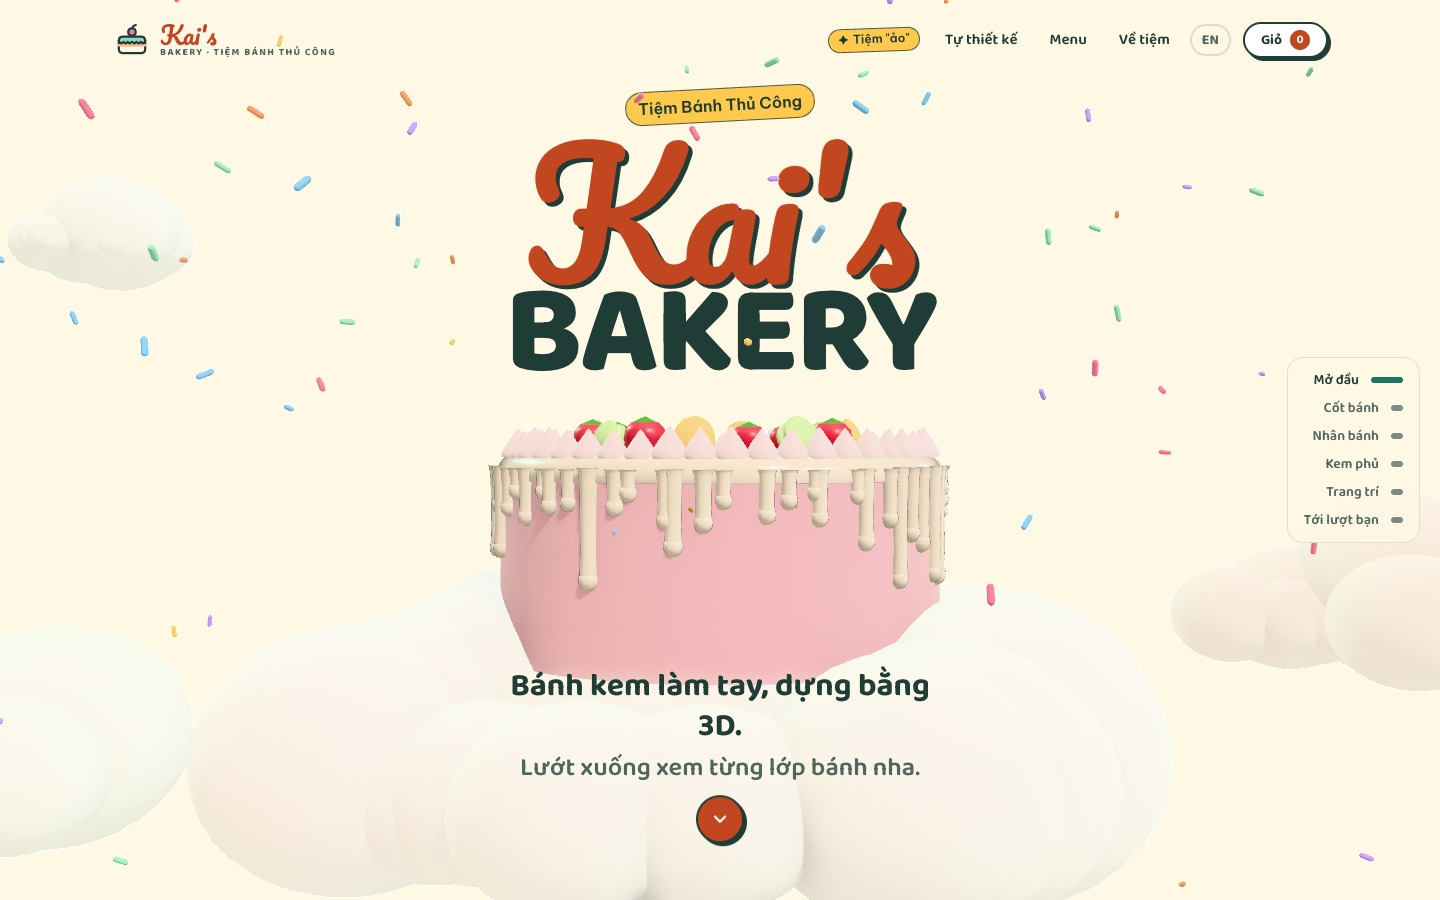
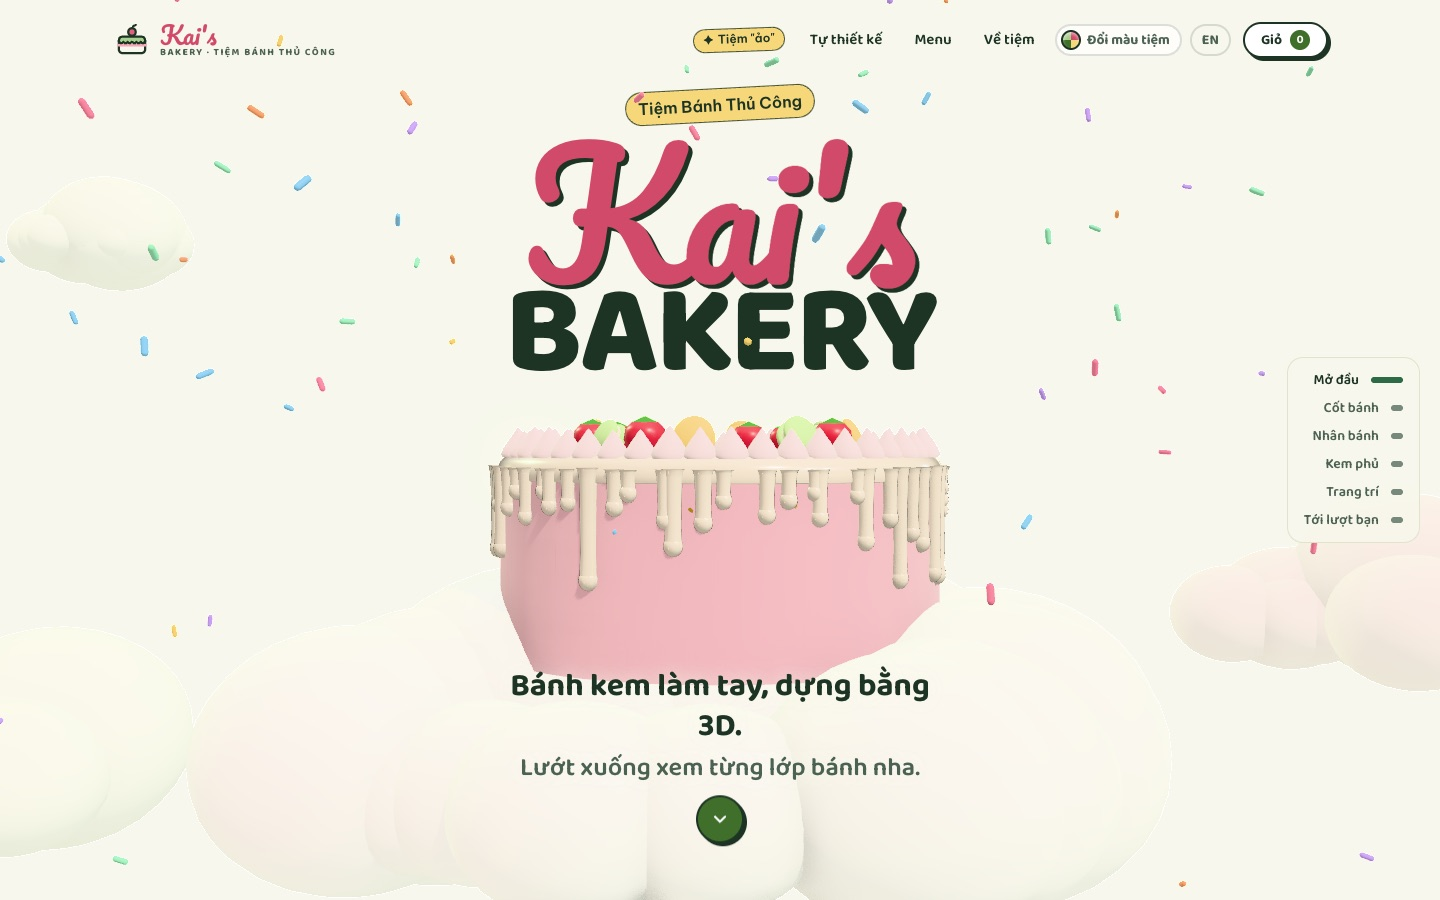
README and pictures in G1: seven screenshots, the social preview, and a strip of the four colour sets
All taken on the production build at the same framing as before (1440x900, phone 390x844 at 2x, social
preview 1200x630 with the header, chapter list and opening text hidden). README gets "Four colour sets"
(table and a 2x2 strip of the home page in each set), "Four palettes without a flash" under How it is built,
and the contrast note now covers all four sets.

diff --git a/README.md b/README.md
@@ -40,6 +40,19 @@ realistic on purpose, but no order is ever sent and nobody is charged; every pag
 
 <img src="docs/screenshots/phone-menu.jpg" width="300" alt="The vitrine on a phone: the 3D table on top, the list of cakes below">
 
+### Four colour sets
+
+A switch in the header recolours the whole shop, 3D scenes included, and the browser remembers the choice.
+
+| Set                           | Feel                                                          |
+| ----------------------------- | ------------------------------------------------------------- |
+| **G1 · Matcha Dâu** (default) | matcha milk and strawberry: soft greens, a strawberry "Kai's" |
+| **B · Bơ Bạc Hà**             | butter and mint, the first palette: a peach-orange buy button |
+| **G2 · Lá Dứa Dừa**           | pandan and coconut: the freshest green                        |
+| **G3 · Rừng Kem**             | forest and cream: deep green ink and logo                     |
+
+![The home page in the four colour sets](docs/screenshots/palettes.jpg)
+
 ## How it is built
 
 ### Two languages, one set of pages
@@ -87,6 +100,19 @@ unless the visitor asked for reduced motion.
   ambient occlusion, a soft bloom and neutral tone mapping, which keeps the pastel colours true.
 - Scenes load with `next/dynamic` and `ssr: false`; every page is prerendered as static HTML.
 
+### Four palettes without a flash
+
+- `src/lib/palettes.ts` is the only place colours are defined: four sets of the same 21 roles (ink and muted
+  carry text, leaf is links and focus, buy is only for buying, brand is the "Kai's" script, the rest is
+  decoration). `globals.css` holds the default set in `@theme` so Tailwind knows the tokens; a test keeps the
+  two equal.
+- The root layout writes one `:root[data-palette="…"]` rule per set and a tiny inline script that applies the
+  saved set before the first paint, so pages stay static HTML and never flash the default colours.
+- Shadows, background blobs, selection and focus rings are mixed from the tokens (`color-mix`), and the
+  background sprinkles are drawn per set.
+- The 3D scenes read the same set: switching recolours the live scene (sky, light tints, table, box ribbon and
+  print) without a reload, and saved pictures use the chosen sky.
+
 ### Studio photo (path tracing)
 
 On a desktop, "Studio photo" hands the builder's canvas to
@@ -117,8 +143,8 @@ All of these rules have unit tests (`src/lib/*.test.ts`).
 - Real form controls throughout, a skip link, visible focus, and focus moved to the first invalid field or to
   the confirmation heading.
 - With reduced motion: no idle animation, no smooth scrolling, the box scene starts closed.
-- Every text colour pair passes WCAG AA, and a unit test measures them again from the CSS
-  (`src/lib/contrast.test.ts`).
+- Every text colour pair passes WCAG AA in all four colour sets, and a unit test measures them again
+  (`src/lib/contrast.test.ts`). The colour switch is a keyboard-friendly radio group.
 
 ## Tech stack
 
